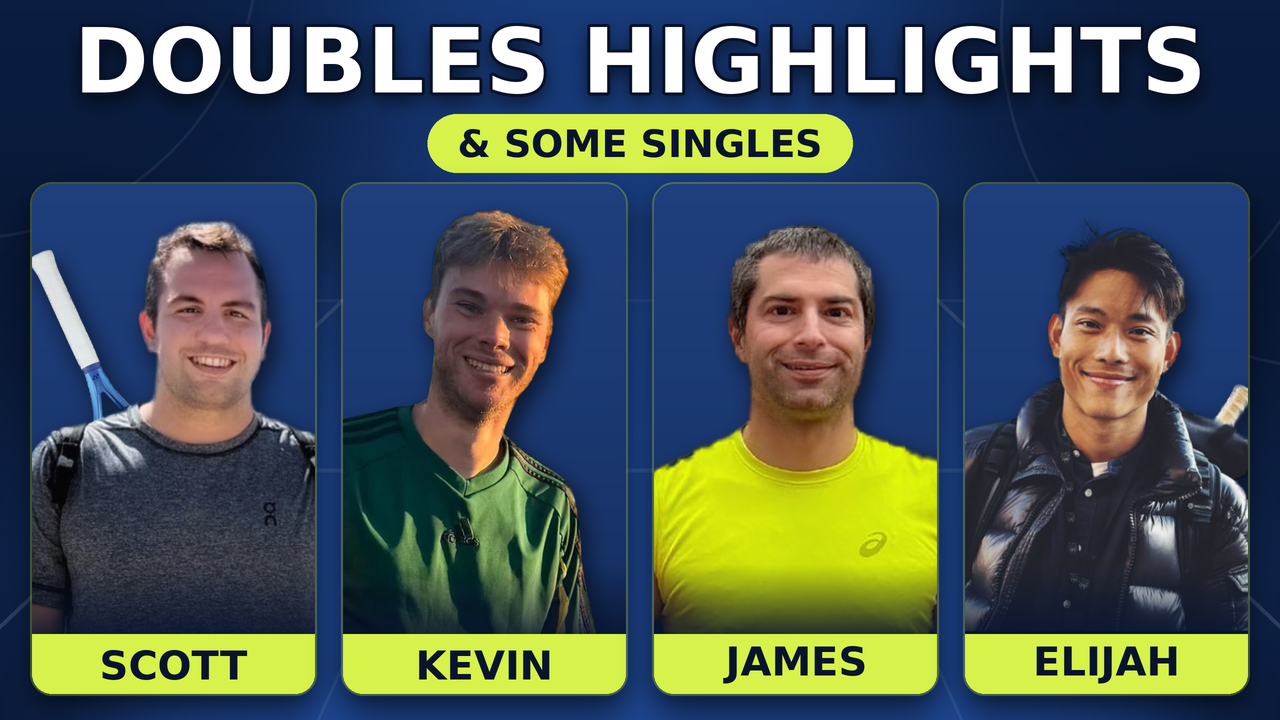
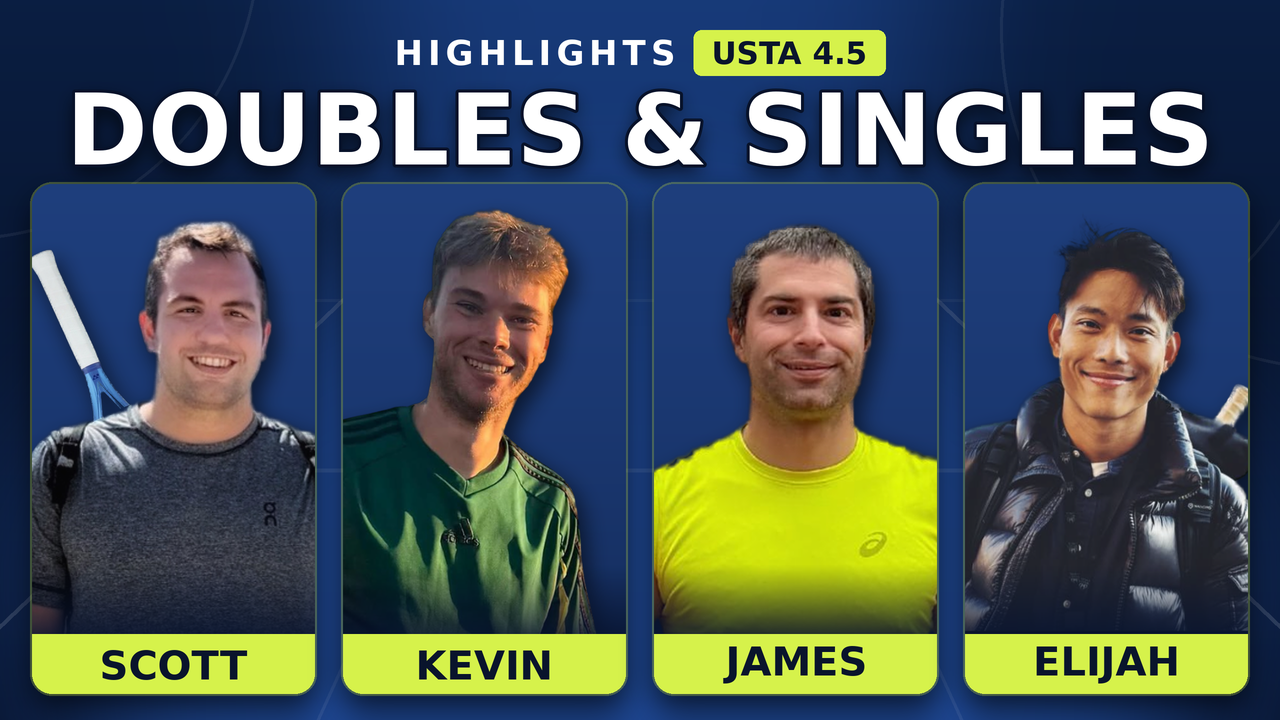
Retitle the cover and add the video description draft
Cover now reads "HIGHLIGHTS / USTA 4.5" over "DOUBLES & SINGLES". Setting
the full title as one line would have shrunk it well past readable at
browse size, so the subject takes the big type and the rest rides above it
as a kicker and a badge.

cover/description.md holds the title and two lengths of description, with
the match specifics left as placeholders.

Claude-Session: https://claude.ai/code/session_01U8YoAzAAYbdUiYZWv5RoRu

Changed region(s): [[0.0312, 0.0306, 0.9688, 0.2444]]

diff --git a/cover/make_cover.py b/cover/make_cover.py
@@ -24,8 +24,13 @@ SS = 2                    # supersample, downscaled at the end
 
 FONT = "/usr/share/fonts/truetype/dejavu/DejaVuSans-Bold.ttf"
 
-TITLE = "DOUBLES HIGHLIGHTS"
-SUBTITLE = "& SOME SINGLES"
+# "Highlights: Doubles & Singles | USTA 4.5" split into three pieces. Setting
+# the whole thing as one line would shrink it to the point of being unreadable
+# at the size a thumbnail is actually browsed at, so the subject carries the
+# big type and the rest rides above it.
+KICKER = "HIGHLIGHTS"
+BADGE = "USTA 4.5"
+TITLE = "DOUBLES & SINGLES"
 
 # Colour schemes. Pick one with `python3 cover/make_cover.py <name>`; the
 # layout is identical in every case, only the palette moves.
@@ -160,13 +165,49 @@ def background():
     return bg.convert("RGBA")
 
 
+def tracked(d, xy, text, font, fill, tracking):
+    """Draw text with extra letter spacing, which PIL has no option for."""
+    x, y = xy
+    for ch in text:
+        d.text((x, y), ch, font=font, fill=fill)
+        x += font.getlength(ch) + tracking
+
+
+def tracked_width(text, font, tracking):
+    return sum(font.getlength(c) for c in text) + tracking * (len(text) - 1)
+
+
 def draw_title(canvas):
-    """Headline plus the lime subtitle pill. Returns nothing."""
-    title_font = fit_font(TITLE, s(1136))
+    """Kicker + level badge on one row, the subject in big type underneath."""
     d = ImageDraw.Draw(canvas)
+
+    # Row one: HIGHLIGHTS, then the USTA 4.5 badge, centred as a pair.
+    kick_font = ImageFont.truetype(FONT, s(34))
+    badge_font = ImageFont.truetype(FONT, s(31))
+    track = s(5)
+    kw = tracked_width(KICKER, kick_font, track)
+    bb = badge_font.getbbox(BADGE)
+    bpad_x, bpad_y = s(18), s(11)
+    bw = (bb[2] - bb[0]) + bpad_x * 2
+    bh = (bb[3] - bb[1]) + bpad_y * 2
+    gap = s(18)
+
+    row_y = s(30)
+    row_x = (s(W) - (kw + gap + bw)) // 2
+    kb = kick_font.getbbox(KICKER)
+    tracked(d, (row_x, row_y + (bh - (kb[3] - kb[1])) // 2 - kb[1]), KICKER,
+            kick_font, (255, 255, 255, 235), track)
+    bx = row_x + kw + gap
+    d.rounded_rectangle([bx, row_y, bx + bw, row_y + bh], radius=s(8),
+                        fill=THEME["accent"])
+    d.text((bx + bpad_x - bb[0], row_y + bpad_y - bb[1]), BADGE, font=badge_font,
+           fill=THEME["ink"])
+
+    # Row two: the headline, as large as the frame allows.
+    title_font = fit_font(TITLE, s(1150))
     tb = title_font.getbbox(TITLE)
-    tw, th = tb[2] - tb[0], tb[3] - tb[1]
-    tx, ty = (s(W) - tw) // 2 - tb[0], s(26) - tb[1]
+    tx = (s(W) - (tb[2] - tb[0])) // 2 - tb[0]
+    ty = row_y + bh + s(16) - tb[1]
 
     shadow = Image.new("RGBA", canvas.size, (0, 0, 0, 0))
     ImageDraw.Draw(shadow).text((tx, ty + s(7)), TITLE, font=title_font,
@@ -174,17 +215,6 @@ def draw_title(canvas):
     canvas.alpha_composite(shadow.filter(ImageFilter.GaussianBlur(s(9))))
     d.text((tx, ty), TITLE, font=title_font, fill=(255, 255, 255, 255),
            stroke_width=s(3), stroke_fill=THEME["stroke"] + (255,))
-
-    # Subtitle pill.
-    sub_font = ImageFont.truetype(FONT, s(38))
-    sb = sub_font.getbbox(SUBTITLE)
-    sw, sh = sb[2] - sb[0], sb[3] - sb[1]
-    pad_x, pad_y = s(30), s(15)
-    pw, ph = sw + pad_x * 2, sh + pad_y * 2
-    px, py = (s(W) - pw) // 2, s(26) + th + s(20)
-    d.rounded_rectangle([px, py, px + pw, py + ph], radius=ph // 2, fill=THEME["accent"])
-    d.text((px + pad_x - sb[0], py + pad_y - sb[1]), SUBTITLE, font=sub_font,
-           fill=THEME["ink"])
 
 
 def player_card(img, p):

diff --git a/cover/description.md b/cover/description.md
@@ -1,0 +1,76 @@
+# YouTube copy
+
+## Title
+
+```
+Highlights: Doubles & Singles | USTA 4.5
+```
+
+## Description
+
+Anything in `[square brackets]` needs a real value before this goes up. The
+first two lines are the only ones YouTube shows before "…more", so they carry
+the whole pitch.
+
+```
+4.5 doubles and singles from [month, year] — Scott, Kevin, James and Elijah,
+[venue/city], full points only, no filler.
+
+Four of us split into pairs and played it out, then stayed on for a few singles
+sets. Everything in here is a rally we thought was worth watching: long
+baseline exchanges, net scrambles, and the occasional point nobody meant to
+win. Level is USTA 4.5.
+
+CHAPTERS
+0:00 Warm-up
+[0:00] Doubles — [pair] vs [pair]
+[0:00] Best doubles points
+[0:00] Singles — [name] vs [name]
+[0:00] Singles — [name] vs [name]
+[0:00] Point of the day
+
+PLAYERS
+Scott · Kevin · James · Elijah
+
+DETAILS
+Level: USTA 4.5
+Format: [best-of-X sets / timed sets / social play]
+Surface: [hard / clay / indoor]
+Court: [venue, city]
+Filmed: [date]
+Camera: [camera or phone] · Edited in [editor]
+
+Which points would you have played differently? Leave a comment — we settle
+these arguments in the group chat anyway, may as well do it here.
+
+Subscribe if you want the next batch. We play most [weeknight/weekend].
+
+#tennis #doubles #usta
+```
+
+## Shorter cut
+
+For when the long version feels like too much.
+
+```
+4.5 doubles and singles from [month, year] — Scott, Kevin, James and Elijah at
+[venue]. Full points, no filler.
+
+0:00 Warm-up
+[0:00] Doubles
+[0:00] Singles
+[0:00] Point of the day
+
+Level: USTA 4.5 · Filmed [date] · [venue, city]
+
+#tennis #doubles #usta
+```
+
+## Notes
+
+- Chapters only switch on if the first one is `0:00` and there are at least
+  three of them, each ten seconds or longer.
+- YouTube surfaces the first three hashtags above the title, so keep it to
+  three and put the broadest one first.
+- If the ball tier list is published somewhere, a line like
+  `Our tennis ball rankings: [url]` sits well just above the hashtags.
